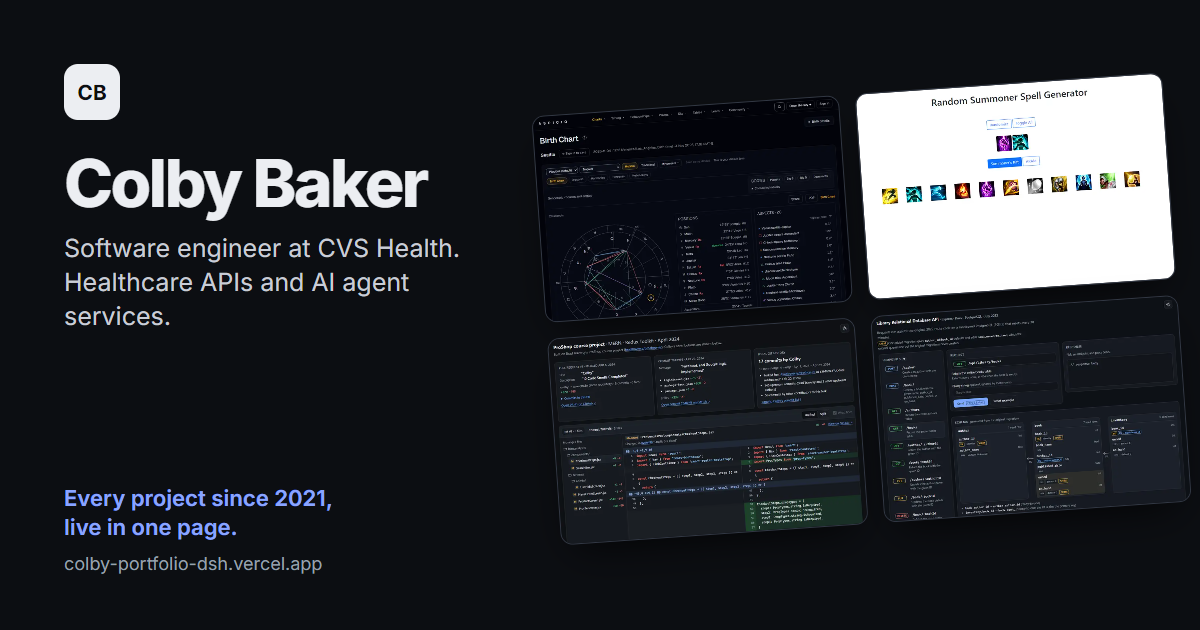
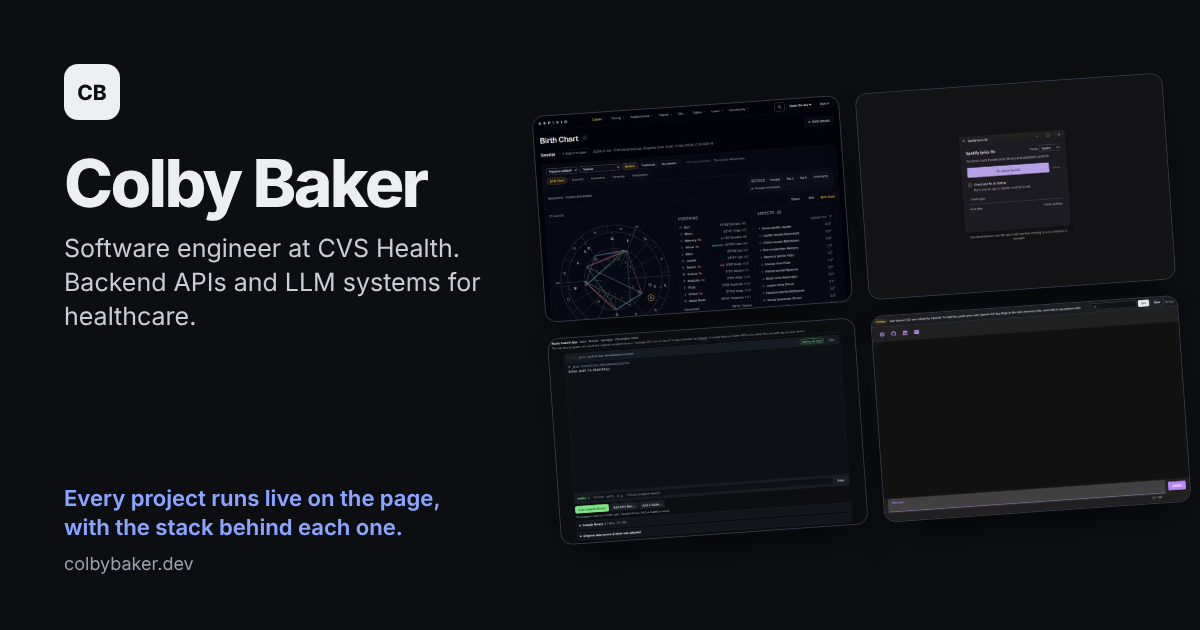
Resume: company line without a date, graduation year only; new social preview; drop the open-to-roles line
Claude-Session: https://claude.ai/code/session_01Qrx2HFfYMoAzCx7HdwmZEz

diff --git a/qa/og.py b/qa/og.py
@@ -6,7 +6,7 @@ from playwright.sync_api import sync_playwright
 root = Path(__file__).resolve().parent.parent
 posters = root / "public" / "posters"
 font = (root / "public" / "fonts" / "inter-latin-wght.woff2").read_bytes()
-pick = ["aspicio", "summoner", "proshop", "library", "weather", "spotify-classic-lyrics"]
+pick = ["aspicio", "spotify-classic-lyrics", "music-search", "openai-chatbot"]
 thumbs = [p for p in (posters / f"{s}-800.webp" for s in pick) if p.exists()][:4]
 
 def data_uri(p, mime):
